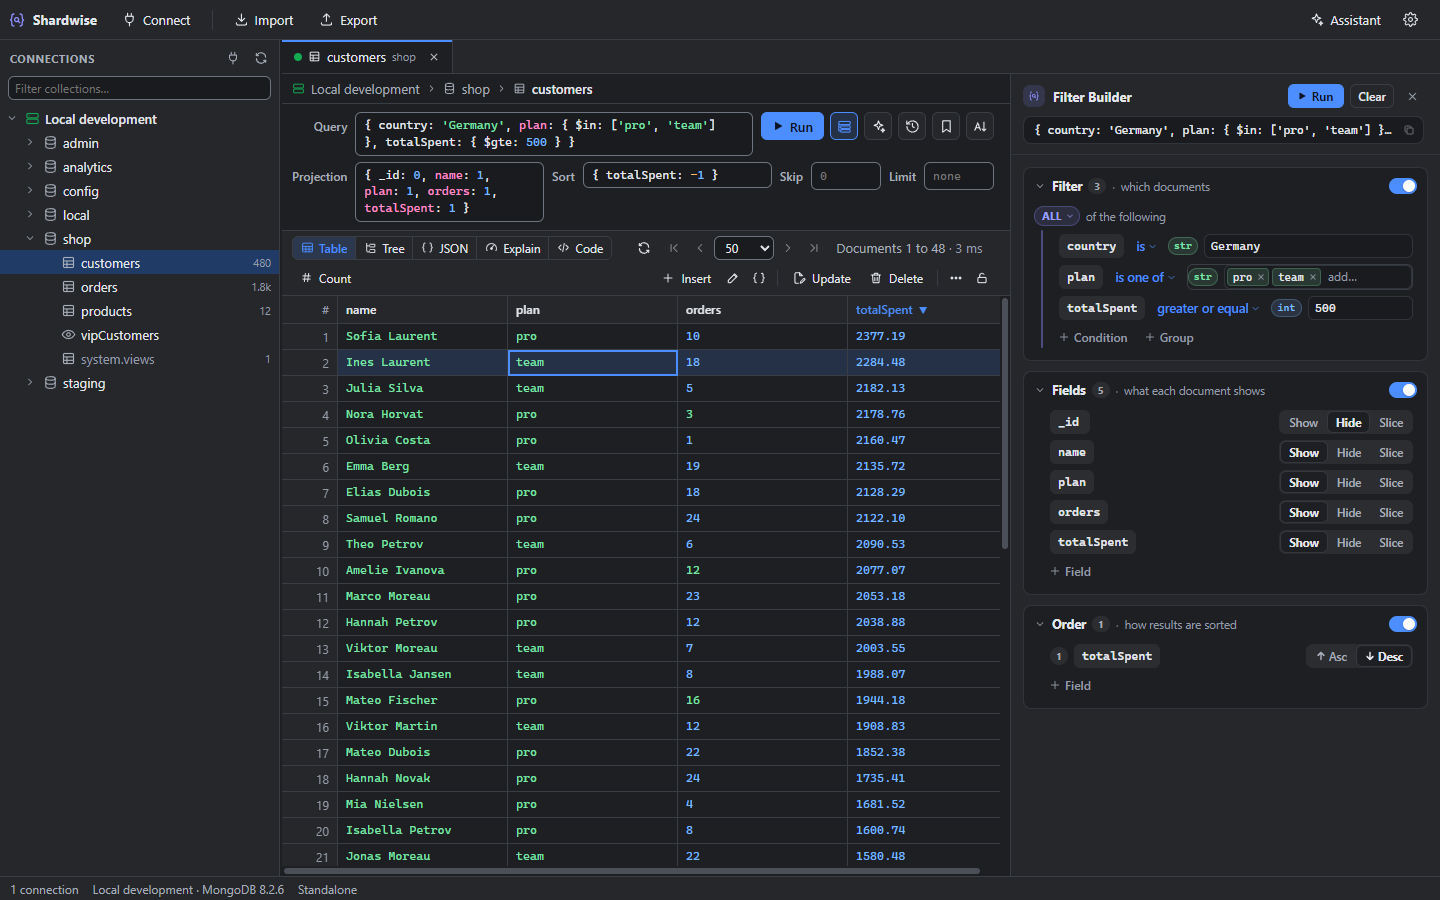
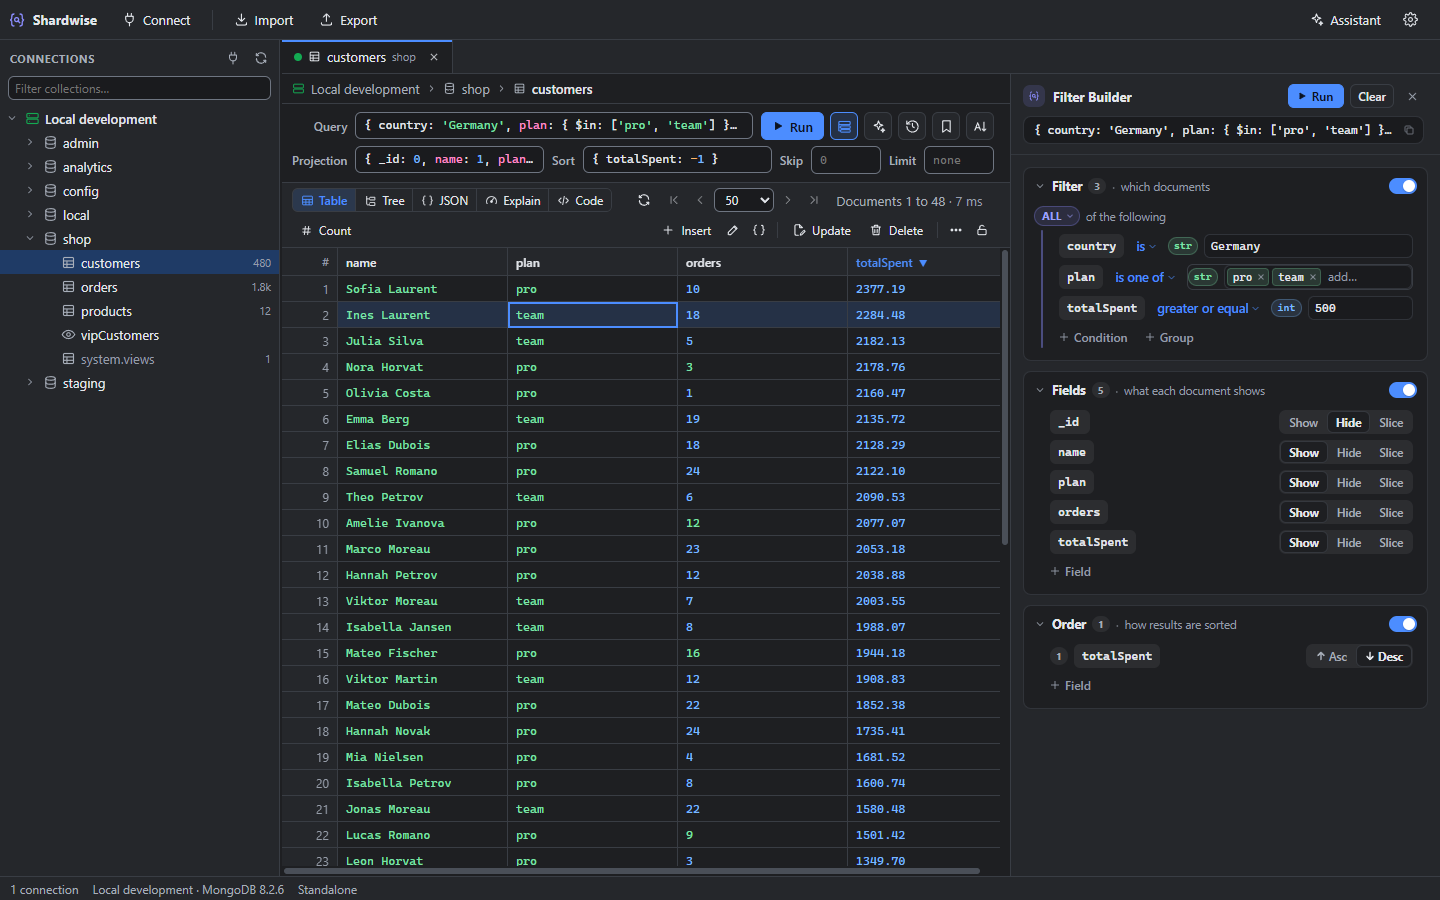
Query bar: one line per field until focused
Query, projection and sort show their first line with an ellipsis while
not being edited, so long filters no longer push the results down.
Focusing a field shows the full text. README screenshots regenerated.

Changed region(s): [[0.1875, 0.1556, 0.7188, 0.9644]]

diff --git a/src/renderer/src/styles.css b/src/renderer/src/styles.css
@@ -1418,6 +1418,37 @@ textarea.input:focus {
   overflow: hidden;
   min-width: 0;
 }
+/* Query bar fields: one line with an ellipsis until focused, so long filters do not push the results down. */
+.cm-wrap.collapsed {
+  position: relative;
+}
+.cm-wrap.collapsed .cm-scroller {
+  max-height: calc(var(--editor-fs, 12px) * 1.4 + 8px);
+  overflow: hidden !important;
+}
+.cm-wrap.collapsed .cm-content {
+  flex-shrink: 1 !important;
+  min-width: 0;
+  max-width: 100%;
+}
+.cm-wrap.collapsed .cm-line {
+  white-space: pre;
+  overflow: hidden;
+  text-overflow: ellipsis;
+}
+.cm-wrap.collapsed.more::after {
+  content: '…';
+  position: absolute;
+  right: 6px;
+  top: 4px;
+  padding-left: 6px;
+  background: var(--bg-input);
+  color: var(--text-2);
+  font-family: var(--editor-font, var(--mono));
+  font-size: var(--editor-fs, 12px);
+  line-height: 1.4;
+  pointer-events: none;
+}
 .cm-wrap.focused {
   border-color: var(--accent);
   box-shadow: 0 0 0 2px var(--accent-soft);

diff --git a/src/renderer/src/components/QueryTab.tsx b/src/renderer/src/components/QueryTab.tsx
@@ -55,6 +55,7 @@ function QueryBar({ tab, fields }: { tab: Tab; fields: string[] }): ReactElement
         placeholder="{ field: 'value' }   — empty matches all documents"
         fields={fields}
         maxHeight={160}
+        collapse
         invalid={err?.part === 'query'}
       />
       <div className="row">
@@ -89,6 +90,7 @@ function QueryBar({ tab, fields }: { tab: Tab; fields: string[] }): ReactElement
           placeholder="{ field: 1 }"
           fields={fields}
           maxHeight={90}
+        collapse
           invalid={err?.part === 'projection'}
         />
         <div className="qlabel">Sort</div>
@@ -101,6 +103,7 @@ function QueryBar({ tab, fields }: { tab: Tab; fields: string[] }): ReactElement
           placeholder="{ field: -1 }"
           fields={fields}
           maxHeight={90}
+        collapse
           invalid={err?.part === 'sort'}
         />
         <div className="qlabel">Skip</div>

diff --git a/src/renderer/src/components/CodeEditor.tsx b/src/renderer/src/components/CodeEditor.tsx
@@ -71,6 +71,8 @@ interface Props {
   autoFocus?: boolean
   /** Autocomplete preference that applies (default: query editors). */
   area?: EditorArea
+  /** Show only the first line, cut with an ellipsis, until the editor gets focus (query bar). */
+  collapse?: boolean
 }
 
 export function CodeEditor(p: Props): ReactElement {
@@ -141,10 +143,11 @@ export function CodeEditor(p: Props): ReactElement {
     })
   }, [p.readOnly])
 
+  const collapsed = p.collapse && !focused ? (p.value.trim().includes('\n') ? 'collapsed more' : 'collapsed') : ''
   return (
     <div
       ref={host}
-      className={`cm-wrap ${focused ? 'focused' : ''} ${p.invalid ? 'invalid' : ''} ${p.full ? 'full' : ''} ${p.className ?? ''}`}
+      className={`cm-wrap ${focused ? 'focused' : ''} ${p.invalid ? 'invalid' : ''} ${p.full ? 'full' : ''} ${collapsed} ${p.className ?? ''}`}
     />
   )
 }
